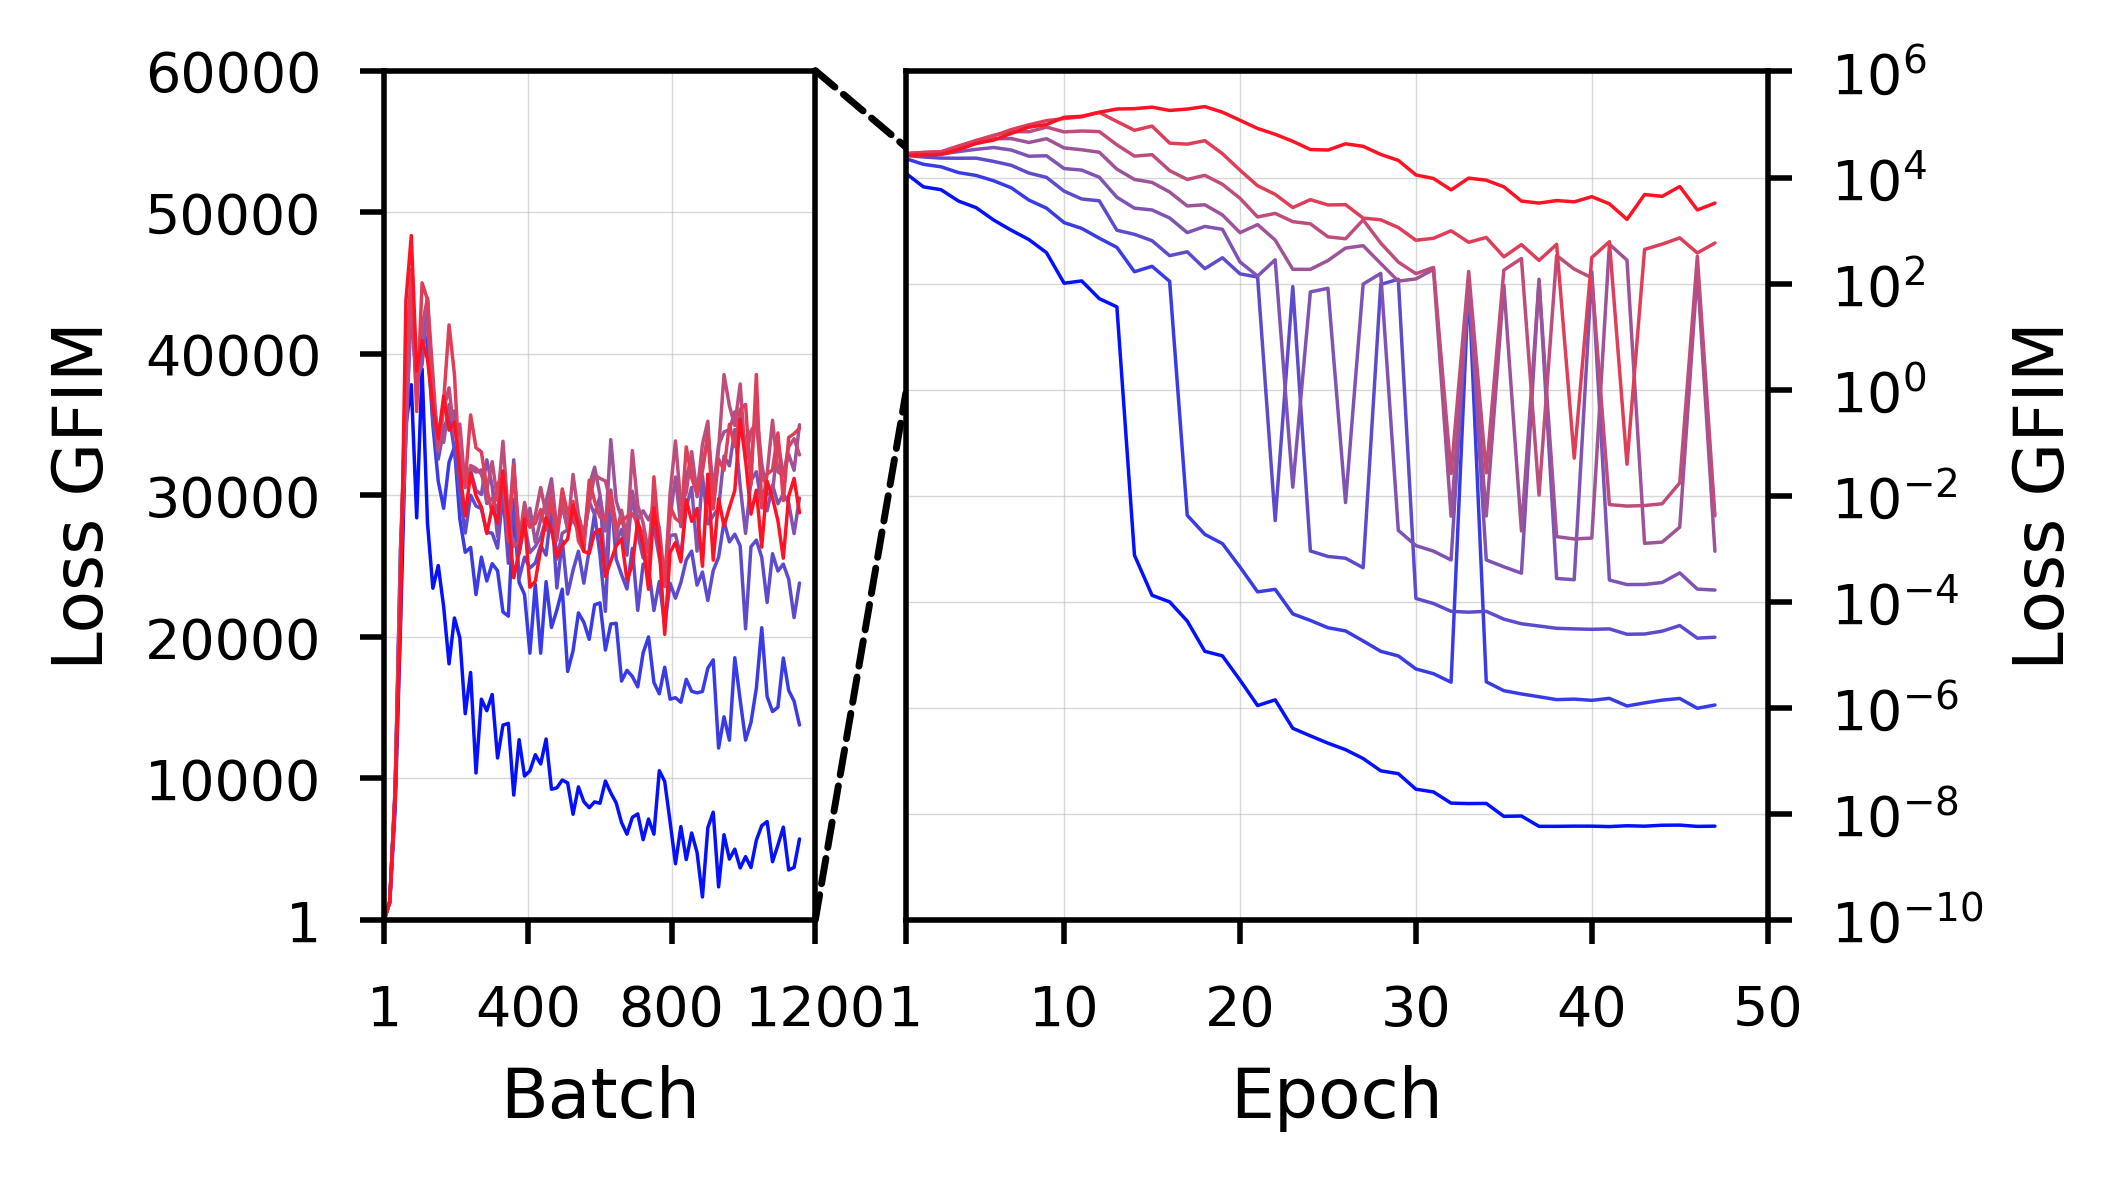
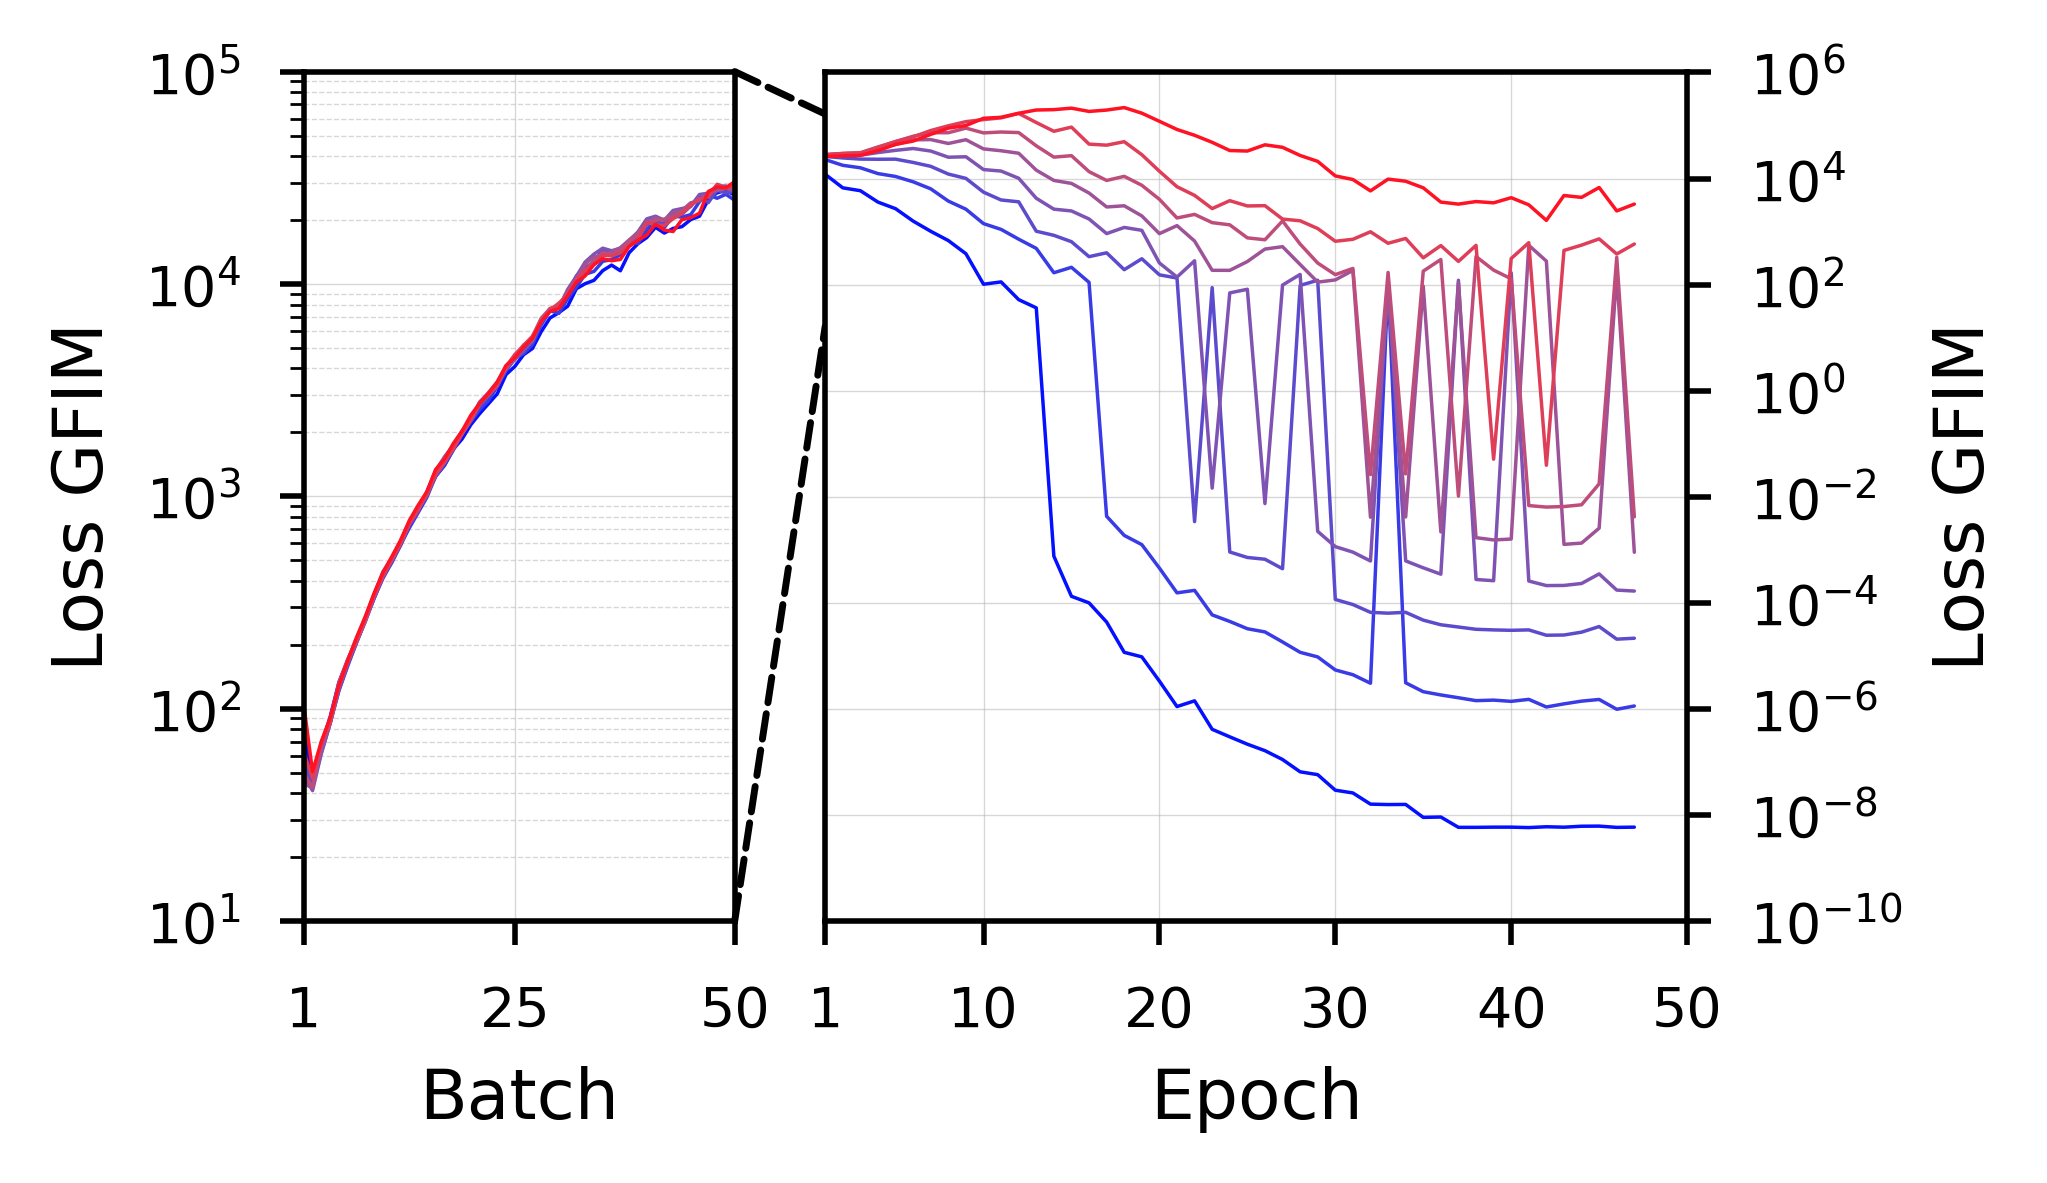
new gs

diff --git a/graphs.py b/graphs.py
@@ -94,7 +94,7 @@ def make_OGFIM():
 
 def make_T1GFIM():
     T1FIMstep = pd.read_csv('T1_step.csv', sep=',')
-    T1FIMstep = T1FIMstep.iloc[::15]
+    T1FIMstep = T1FIMstep.iloc[::1]
     print(T1FIMstep.head())
 
     fig, (ax1,ax2) = plt.subplots(1,2,figsize=set_size(516,fraction=0.5),gridspec_kw={'wspace': 0.15},width_ratios=[1, 2])
@@ -111,13 +111,13 @@ def make_T1GFIM():
     
     #plt.ylabel("T1 GFIM")
     ax1.set_ylabel("Loss GFIM")
-    ax1.set_ylim([1,250])
-    ax1.yaxis.set_ticks([1,50,100,150,200,250])
+    ax1.set_ylim([1,50])
+    ax1.yaxis.set_ticks([1,10,20,30,40,50])
 
     ax1.set_xlabel("Batch")
-    ax1.set_xlim([1,1500])
+    ax1.set_xlim([1,100])
     start,end = ax1.get_xlim()
-    ax1.xaxis.set_ticks([1,750,1500])
+    ax1.xaxis.set_ticks([1,50,100])
     ax1.grid(True,which='major',axis='both',linestyle='-',linewidth=0.2,alpha=0.5)
     ax1.grid(True,which='minor',axis='both',linestyle='--',linewidth=0.2,alpha=0.5)
     ax1.get_legend().remove()
@@ -174,7 +174,7 @@ def make_T1GFIM():
 
 def make_T2GFIM():
     FIMstep = pd.read_csv('T2_step.csv', sep=',')
-    FIMstep = FIMstep.iloc[::15]
+    FIMstep = FIMstep.iloc[::1]
 
     fig, (ax1,ax2) = plt.subplots(1,2,figsize=set_size(516,fraction=0.5),gridspec_kw={'wspace': 0.12},width_ratios=[1, 2])
     sea.set(style="whitegrid")
@@ -190,13 +190,13 @@ def make_T2GFIM():
     
     #plt.ylabel("T1 GFIM")
     ax1.set_ylabel("Loss GFIM")
-    ax1.set_ylim([1,800])
-    ax1.yaxis.set_ticks([1,200,400,600,800])
+    ax1.set_ylim([1,200])
+    ax1.yaxis.set_ticks([1,50,100,150,200])
 
     ax1.set_xlabel("Batch")
-    ax1.set_xlim([1,1650])
+    ax1.set_xlim([1,100])
     start,end = ax1.get_xlim()
-    ax1.xaxis.set_ticks([1,750,1500])
+    ax1.xaxis.set_ticks([1,50,100])
     ax1.grid(True,which='major',axis='both',linestyle='-',linewidth=0.2,alpha=0.5)
     ax1.grid(True,which='minor',axis='both',linestyle='--',linewidth=0.2,alpha=0.5)
     
@@ -254,7 +254,7 @@ def make_T2GFIM():
 
 def make_T3GFIM():
     FIMstep = pd.read_csv('T3_step.csv', sep=',')
-    FIMstep = FIMstep.iloc[::30]
+    FIMstep = FIMstep.iloc[::1]
     
     print(FIMstep.head())
 
@@ -273,12 +273,13 @@ def make_T3GFIM():
     #plt.ylabel("T1 GFIM")
     ax1.set_ylabel("Loss GFIM")
     ax1.set_ylim([1,2000])
-    ax1.yaxis.set_ticks([1,200,400,600,800,1000,1200,1400,1600,1800,2000])
+    ax1.set_yscale('log')
+    #ax1.yaxis.set_ticks([1,200,400,600,800,1000,1200,1400,1600,1800,2000])
 
     ax1.set_xlabel("Batch")
-    ax1.set_xlim([1,3000])
+    ax1.set_xlim([1,100])
     start,end = ax1.get_xlim()
-    ax1.xaxis.set_ticks([1,1500,3000])
+    ax1.xaxis.set_ticks([1,50,100])
     ax1.grid(True,which='major',axis='both',linestyle='-',linewidth=0.2,alpha=0.5)
     ax1.grid(True,which='minor',axis='both',linestyle='--',linewidth=0.2,alpha=0.5)
     ax1.get_legend().remove()
@@ -337,7 +338,7 @@ def make_T3GFIM():
 
 def make_T4GFIM():
     FIMstep = pd.read_csv('T4_step.csv', sep=',')
-    FIMstep = FIMstep.iloc[::15]
+    #FIMstep = FIMstep.iloc[::15]
 
     fig, (ax1,ax2) = plt.subplots(1,2,figsize=set_size(516,fraction=0.5),gridspec_kw={'wspace': 0.14},width_ratios=[1, 2])
     sea.set(style="whitegrid")
@@ -353,14 +354,14 @@ def make_T4GFIM():
     
     #plt.ylabel("T1 GFIM")
     ax1.set_ylabel("Loss GFIM")
-    ax1.set_ylim([1,60000])
-    ax1.yaxis.set_ticks([1,10000,20000,30000,40000,50000,60000])
+    ax1.set_ylim([10,100000])
+    ax1.set_yscale('log')
+    #ax1.yaxis.set_ticks([1,100000])
     #ax1.set_yscale('log')
 
     ax1.set_xlabel("Batch")
-    ax1.set_xlim([1,1200])
-    start,end = ax1.get_xlim()
-    ax1.xaxis.set_ticks([1,400,800,1200])
+    ax1.set_xlim([1,50])
+    ax1.xaxis.set_ticks([1,25,50])
     ax1.grid(True,which='major',axis='both',linestyle='-',linewidth=0.2,alpha=0.5)
     ax1.grid(True,which='minor',axis='y',linestyle='--',linewidth=0.2,alpha=0.5)
     ax1.get_legend().remove()
@@ -397,7 +398,7 @@ def make_T4GFIM():
     ax2.get_legend().remove()
 
     con1 = ConnectionPatch(xyA=(1,1),
-                        xyB=(0,0.91),
+                        xyB=(0,0.95),
                         coordsA="axes fraction",
                         coordsB="axes fraction",
                         axesA=ax1,
@@ -405,7 +406,7 @@ def make_T4GFIM():
                         color="black",
                         linestyle="--",)
     con2 = ConnectionPatch(xyA=(1,0),
-                        xyB=(0,0.62),
+                        xyB=(0,0.70),
                         coordsA="axes fraction",
                         coordsB="axes fraction",
                         axesA=ax1,
@@ -678,7 +679,7 @@ def make_VIT0001():
     ax1.set_xlabel("Batch")
     ax1.set_xlim([1,200])
     start,end = ax1.get_xlim()
-    ax1.xaxis.set_ticks([1,50,100,150,200])
+    ax1.xaxis.set_ticks([1,100,200])
     ax1.get_legend().remove()
     ax1.grid(True,which='major',axis='both',linestyle='-',linewidth=0.2,alpha=0.5)
     ax1.grid(True,which='minor',axis='y',linestyle='--',linewidth=0.2,alpha=0.5)
@@ -758,9 +759,9 @@ def make_VIT00001():
     #ax1.yaxis.set_ticks([1,50,100,150,200,250])
 
     ax1.set_xlabel("Batch")
-    ax1.set_xlim([1,200])
+    ax1.set_xlim([1,300])
     start,end = ax1.get_xlim()
-    ax1.xaxis.set_ticks([1,100,200])
+    ax1.xaxis.set_ticks([1,100,200,300])
     ax1.get_legend().remove()
     ax1.grid(True,which='major',axis='both',linestyle='-',linewidth=0.2,alpha=0.5)
     ax1.grid(True,which='minor',axis='y',linestyle='--',linewidth=0.2,alpha=0.5)
@@ -837,15 +838,15 @@ def make_VIT000001():
     sea.lineplot(ax=ax1,x="Step",y="7",data=FIMstep,label="7 (High)",linewidth=linsize,color=cols[7])
     
     ax1.set_ylabel("Loss GFIM")
-    ax1.set_ylim([5000,20000])
-    #ax1.set_yscale('log')
+    ax1.set_ylim([1000,100000])
+    ax1.set_yscale('log')
     #ax1.yaxis.set_ticks([1,50,100,150,200,250])
 
     ax1.set_xlabel("Batch")
-    ax1.set_xlim([1,200])
-    ax1.yaxis.set_minor_locator(ticker.AutoMinorLocator(5))
+    ax1.set_xlim([1,300])
+    #ax1.yaxis.set_minor_locator(ticker.AutoMinorLocator(5))
     start,end = ax1.get_xlim()
-    ax1.xaxis.set_ticks([1,100,200])
+    ax1.xaxis.set_ticks([1,100,200,300])
     ax1.get_legend().remove()
     ax1.grid(True,which='major',axis='both',linestyle='-',linewidth=0.2,alpha=0.5)
     ax1.grid(True,which='minor',axis='y',linestyle='--',linewidth=0.2,alpha=0.5)
@@ -879,7 +880,7 @@ def make_VIT000001():
     ax2.grid(True,which='minor',axis='y',linestyle='--',linewidth=0.2,alpha=0.5)
 
     con1 = ConnectionPatch(xyA=(1,1),
-                        xyB=(0,0.82),
+                        xyB=(0,1),
                         coordsA="axes fraction",
                         coordsB="axes fraction",
                         axesA=ax1,
@@ -887,7 +888,7 @@ def make_VIT000001():
                         color="black",
                         linestyle="--",)
     con2 = ConnectionPatch(xyA=(1,0),
-                        xyB=(0,0.5),
+                        xyB=(0,0.33),
                         coordsA="axes fraction",
                         coordsB="axes fraction",
                         axesA=ax1,
